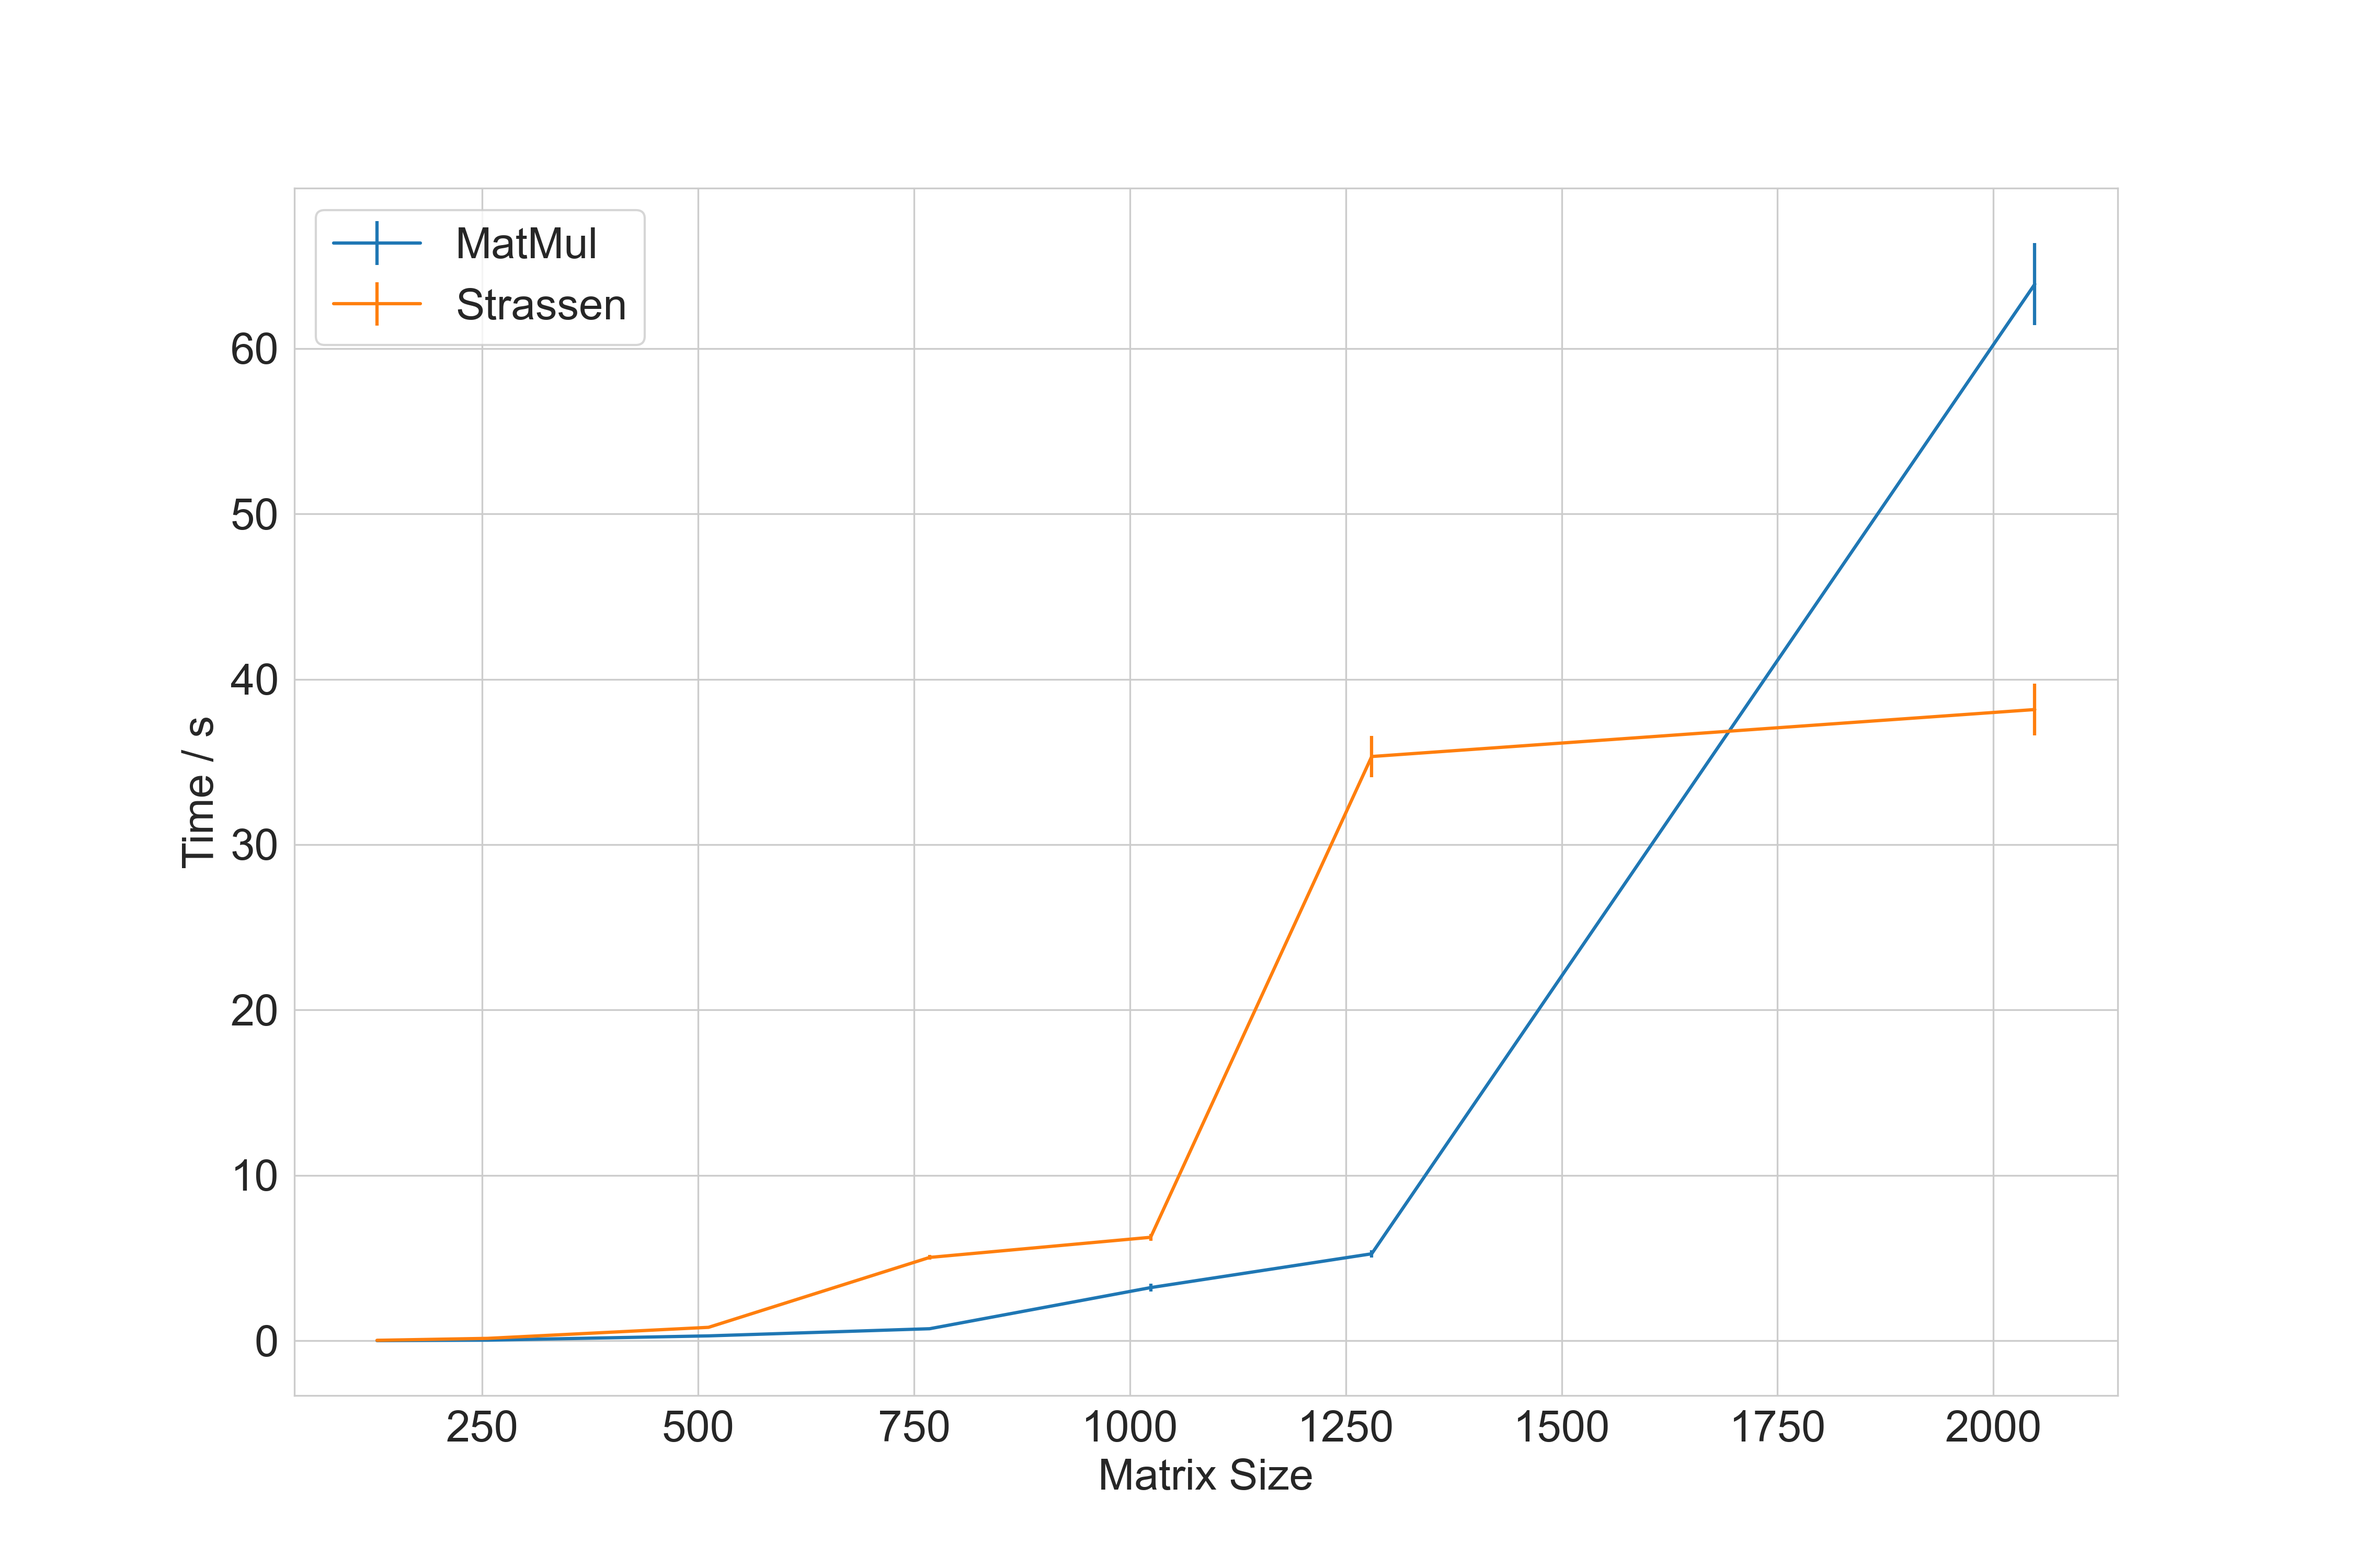
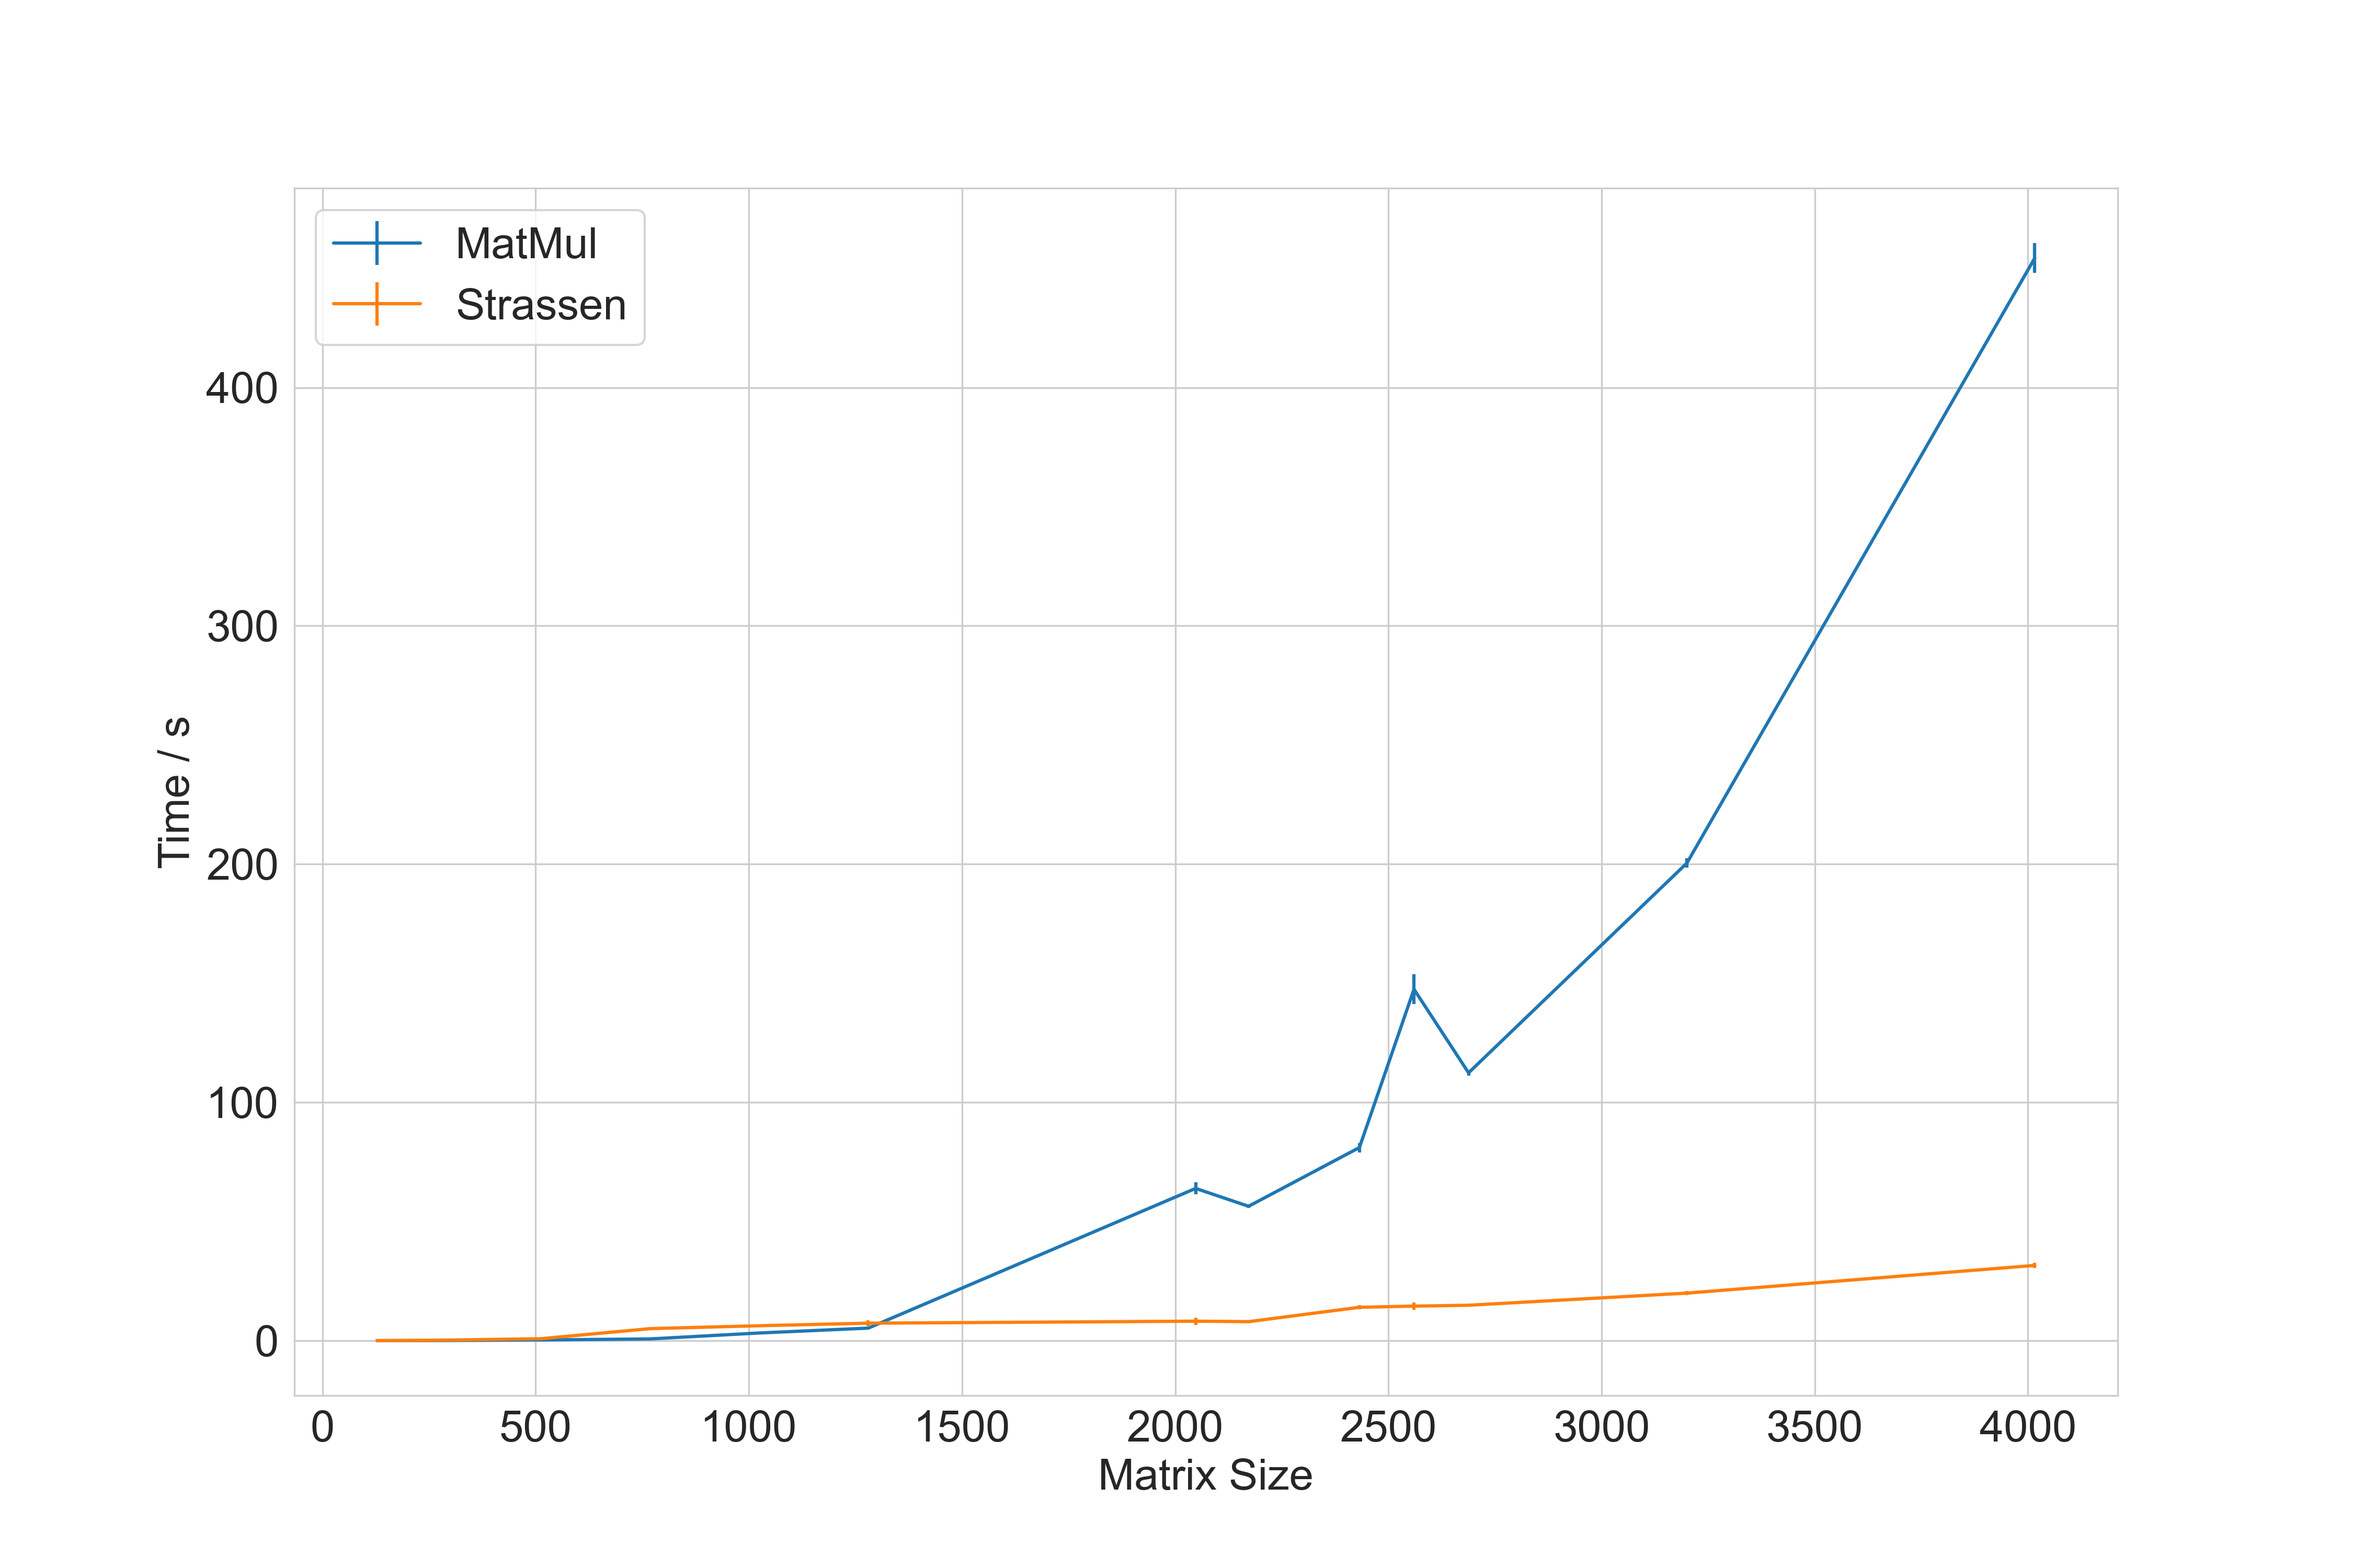
run jax and python

diff --git a/python_strassen/strassen.py b/python_strassen/strassen.py
@@ -3,7 +3,7 @@ import numpy as np
 import time
 
 
-SIZES = [128, 256, 512, 768, 1024, 1280, 2048, ]
+SIZES = [2172, 2432, 2560, 2688, 3200, 4016  ]
 THRESHOLD = 8
 
 
@@ -22,7 +22,7 @@ def strassen(A, B):
     C: np.array: product matrix C
     """
     current_size = len(A) # we are taking just matrix A, as B has the same size
-    if current_size <= THRESHOLD:
+    if current_size%2!=0:
         C = np.matmul(A, B) 
         return C 
     else:

diff --git a/jax_strassen/strassen_jax.py b/jax_strassen/strassen_jax.py
@@ -98,7 +98,7 @@ np.random.seed(42)
 # definition of lists for plots 
 results = {}
 # and save on a file 
-ofile = open("jax_results.csv", "a")
+ofile = open("jax_results.csv", "w")
 ofile.write("SIZE, BASE_RES_MEAN, BASE_RES_STD, OPT_RES_MEAN, OPT_RES_STD\n")
 for SIZE in SIZES: 
     # generate INTEGERS [1-9] random matrices 

diff --git a/jax_strassen/plot.py b/jax_strassen/plot.py
@@ -8,7 +8,7 @@ palette = sbn.color_palette()
 matplotlib.rc('xtick', labelsize=20)
 matplotlib.rc('ytick', labelsize=20)
 
-df = pd.read_csv("python_results.csv")
+df = pd.read_csv("jax_results.csv")
 x_axis = df['SIZE']
 base_y = df[' BASE_RES_MEAN']
 base_err = df[' BASE_RES_STD']
